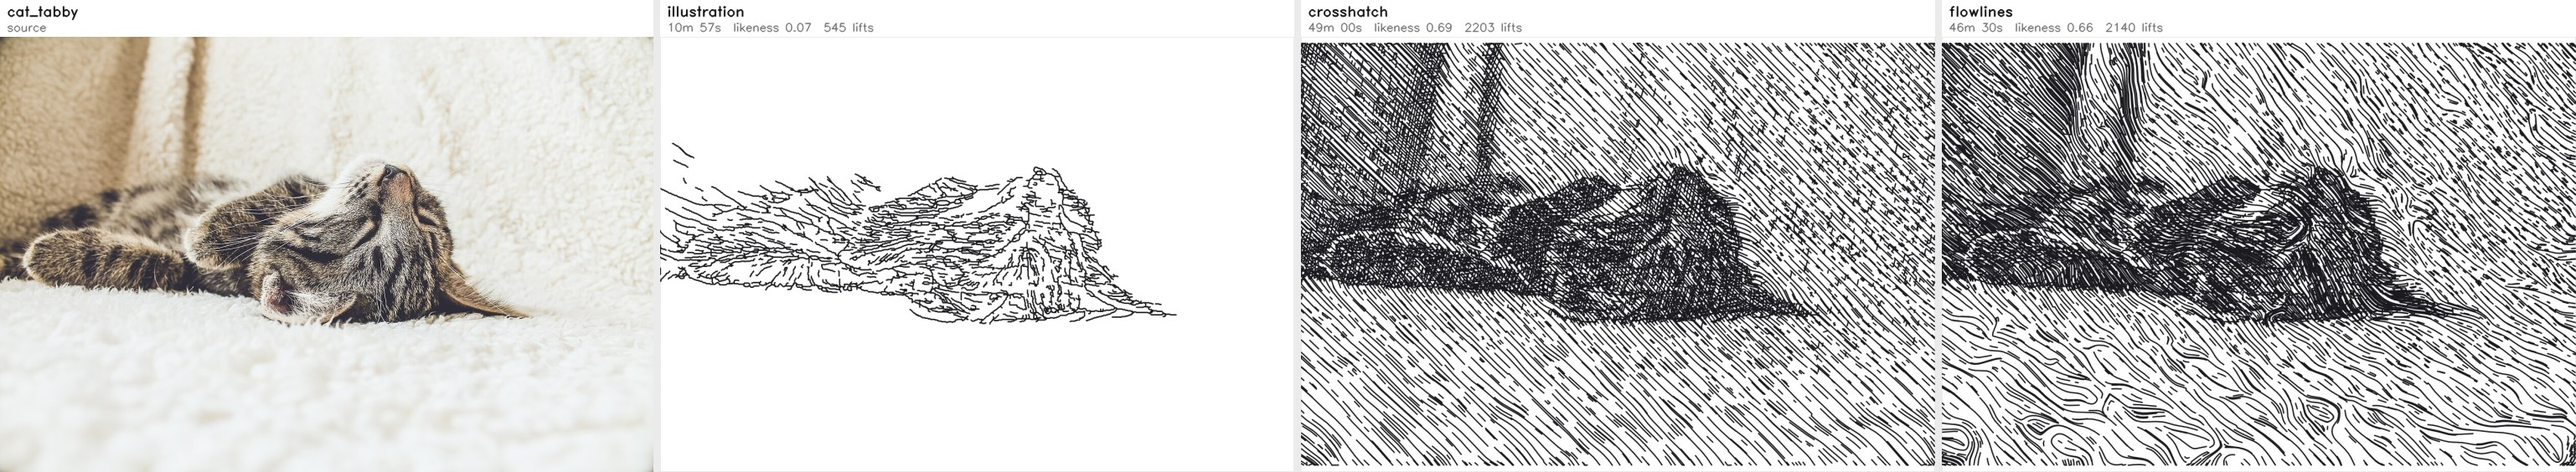
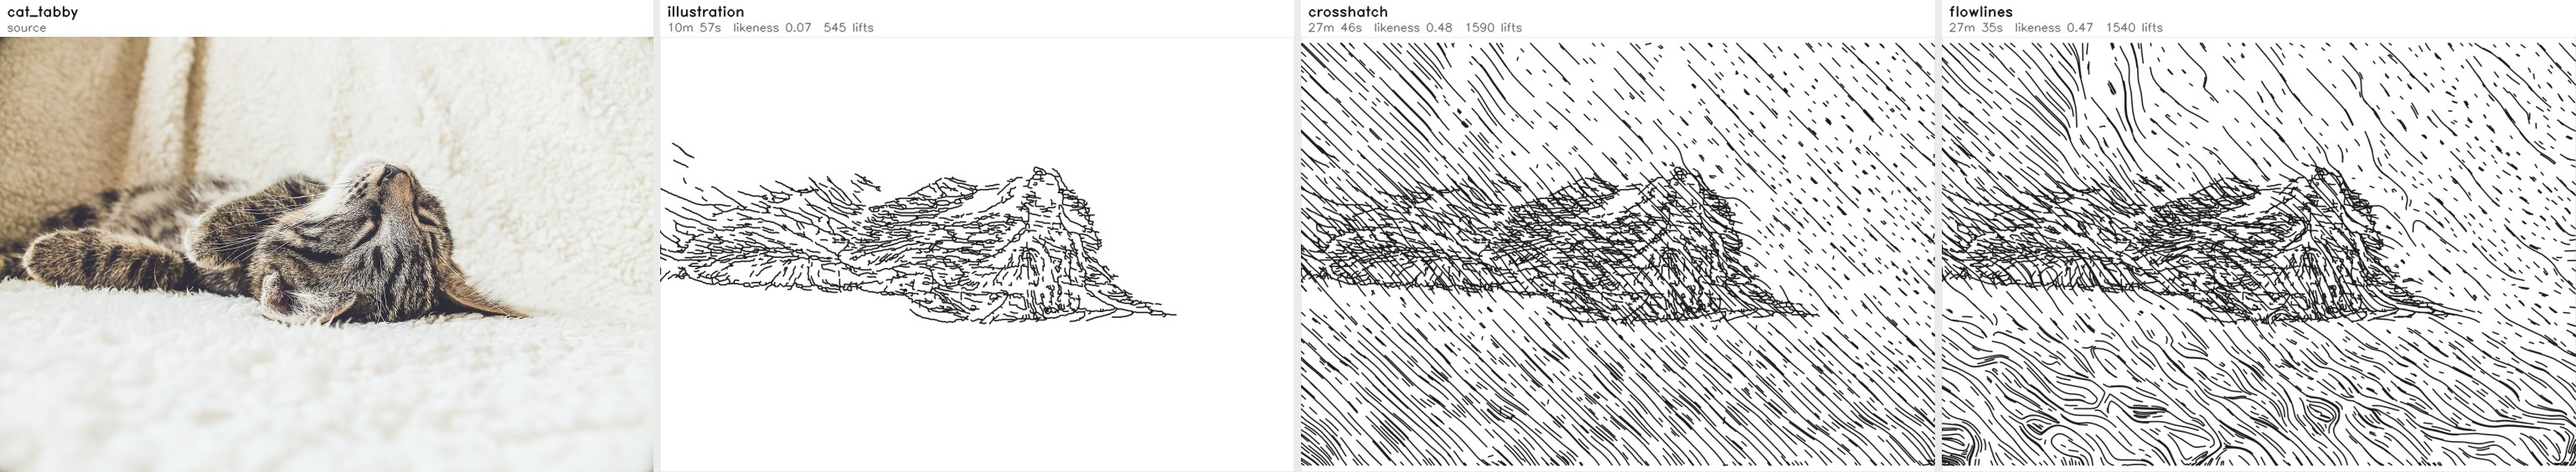
Make Hilbert and Waves faster: subject focus for every engine, blank paper below Hilbert's floor, a time limit that lightens
- subject_focus (default 0.8) lightens the backdrop by depth for every
  engine but illustration; Hilbert fades it fully.
- Hilbert leaves paper where tone wants less than half its coarsest cell's
  ink, instead of a full-page maze; corners fully rounded by default.
- For engines that don't rank strokes, the time limit re-runs the engine on
  less ink rather than dropping strokes, which cut holes in the Hilbert
  curve and the serpentine.

Beard portrait: Hilbert 44 -> 34 min, Waves 37 -> 32; dog Hilbert 1h17 -> 33.

Changed region(s): [[0.4995, 0.0904, 1.0, 0.9947]]

diff --git a/plotter/pipeline.py b/plotter/pipeline.py
@@ -105,19 +105,24 @@ def convert(img_rgb: np.ndarray, cfg: Config, progress=None) -> Result:
             form = depth_mod.form_orientation(depth_map,
                                               sigma=max(1.0, cfg.render.form_smooth))
 
-    note(f"drawing ({cfg.render.engine})")
-    engine = engines.get(cfg.render.engine)
-    produced = engine(value, coverage, canvas, cfg.pen, cfg.render,
-                      features=features, form=form, image_rgb=view_rgb)
-    if not isinstance(produced, tuple):
-        produced = (produced, None)
-    px_paths = produced[0]
-    # Engines that rank their own strokes return the scores as well; only
-    # those are pruned, since for the rest a low score just means "light
-    # tone", which is still wanted.
-    ranked = len(produced) > 2
-    scores = list(produced[2]) if ranked else budget.default_scores(px_paths, coverage)
+    focus = float(np.clip(cfg.render.subject_focus, 0.0, 1.0))
+    if cfg.render.engine == "hilbert":
+        # The curve's coarsest cell has a minimum ink it cannot go below, so
+        # a backdrop faded only part of the way lands right on the blank
+        # cutoff and comes out as a maze full of holes.  Fading it the
+        # whole way leaves a clean vignette instead.
+        focus = min(1.0, 1.25 * focus)
+    if focus > 0 and cfg.render.engine != "illustration":
+        # The same fade illustration applies to its shading, for every
+        # other engine: depth says what is subject and what is backdrop,
+        # and the backdrop gets lighter tone instead of full-density fill.
+        if depth_map is None and depth_mod.available():
+            depth_map = depth_mod.estimate(view_rgb, size=(w_px, h_px),
+                                           model=cfg.render.depth_model)
+        if depth_map is not None:
+            coverage = coverage * _subject_weight(depth_map, focus)
 
+    overlay, overlay_scores = [], []
     if cfg.render.outline and cfg.render.engine not in ("outline", "lineart", "illustration"):
         note("tracing outlines")
         overlay, strengths = engines.outline.generate(
@@ -125,20 +130,59 @@ def convert(img_rgb: np.ndarray, cfg: Config, progress=None) -> Result:
             strength=cfg.render.outline_strength,
             features=features, feature_min=cfg.render.outline_feature_min,
             form=form, image_rgb=view_rgb, with_strength=True)
-        px_paths = list(px_paths) + list(overlay)
-        scores += [budget.line_score(st, P.path_length(p) / canvas.px_per_mm)
-                   for p, st in zip(overlay, strengths)]
+        overlay_scores = [budget.line_score(st, P.path_length(p) / canvas.px_per_mm)
+                          for p, st in zip(overlay, strengths)]
 
-    keep = [i for i, p in enumerate(px_paths) if len(p) >= 2]
-    mm_paths = canvas.paths_to_mm(px_paths)
-    scores = [scores[i] for i in keep]
+    engine = engines.get(cfg.render.engine)
+
+    def draw(ink: float = 1.0):
+        """Run the engine at ``ink`` x the tone target; (mm paths, scores, ranked)."""
+        target = coverage
+        if ink != 1.0:
+            target = np.clip(coverage * ink, 0.0, cfg.pen.max_coverage)
+            target[target < cfg.pen.min_coverage] = 0.0
+        produced = engine(value, target, canvas, cfg.pen, cfg.render,
+                          features=features, form=form, image_rgb=view_rgb)
+        if not isinstance(produced, tuple):
+            produced = (produced, None)
+        px_paths = list(produced[0])
+        # Engines that rank their own strokes return the scores as well;
+        # only those are pruned, since for the rest a low score just means
+        # "light tone", which is still wanted.
+        ranked = len(produced) > 2
+        scores = (list(produced[2]) if ranked
+                  else budget.default_scores(px_paths, target))
+        px_paths += overlay
+        scores += overlay_scores
+        scores = [sc for sc, p in zip(scores, px_paths) if len(p) >= 2]
+        return canvas.paths_to_mm(px_paths), scores, ranked
+
+    def finish(ps):
+        return _optimise(ps, cfg, note, _drawn_sampler(ps, canvas, cfg))
+
+    note(f"drawing ({cfg.render.engine})")
+    mm_paths, scores, ranked = draw()
     raw_count = len(mm_paths)
     raw_travel = P.travel_length(mm_paths)   # unordered, unwelded
-    mm_paths, cut = budget.select(
-        mm_paths, scores, cfg,
-        finish=lambda ps: _optimise(ps, cfg, note, _drawn_sampler(ps, canvas, cfg)),
-        minutes=cfg.paths.time_limit_min,
-        prune_below=cfg.paths.prune_below if ranked else 0.0, note=note)
+    if ranked or cfg.paths.time_limit_min <= 0:
+        mm_paths, cut = budget.select(
+            mm_paths, scores, cfg, finish=finish,
+            minutes=cfg.paths.time_limit_min,
+            prune_below=cfg.paths.prune_below if ranked else 0.0, note=note)
+    else:
+        # An engine that doesn't rank its strokes draws the picture as a
+        # few long ones - a Hilbert curve, a serpentine - and dropping any
+        # of them cuts a hole in it.  Lighten the whole picture instead.
+        fitted, cut = budget.lighten(lambda ink: draw(ink)[0], mm_paths, cfg,
+                                     finish, cfg.paths.time_limit_min, note)
+        if fitted is None:
+            # Even the outline overlay alone runs over: draw no tone and
+            # keep the strongest outline strokes that fit.
+            bare, bare_scores, _ = draw(0.0)
+            fitted, cut = budget.select(bare, bare_scores, cfg, finish=finish,
+                                        minutes=cfg.paths.time_limit_min,
+                                        note=note)
+        mm_paths = fitted
 
     note("estimating")
     stats = gcode.estimate_time(mm_paths, cfg)
@@ -266,6 +310,13 @@ def draw_procedural(kind: str, seed: int | None = None, cfg: Config | None = Non
     blank = np.ones((2, 2), np.float32)
     return Result(paths=mm_paths, canvas=canvas, config=cfg,
                   value=blank, coverage=1.0 - blank, stats=stats)
+
+
+def _subject_weight(depth_map: np.ndarray, focus: float) -> np.ndarray:
+    """1 on the subject, falling to 1 - focus on the backdrop, from depth."""
+    near = np.clip((depth_map - 0.25) / 0.45, 0.0, 1.0)
+    near = near * near * (3.0 - 2.0 * near)            # smoothstep
+    return ((1.0 - focus) + focus * near).astype(np.float32)
 
 
 def _drawn_sampler(mm_paths, canvas: Canvas, cfg: Config):

diff --git a/app.py b/app.py
@@ -77,7 +77,8 @@ def config_from_form() -> Config:
     cfg.render.outline_strength = _f("outline_strength", 0.6)
     cfg.render.hatch_layers = _i("hatch_layers", 3)
     cfg.render.hatch_share = _f("hatch_share", 0.30)
-    cfg.render.hilbert_smooth = _f("hilbert_smooth", 0.35)
+    cfg.render.hilbert_smooth = _f("hilbert_smooth", 0.5)
+    cfg.render.subject_focus = _f("subject_focus", 0.8)
     cfg.render.hilbert_detail = _f("hilbert_detail", 1.2)
     cfg.render.hatch_coherence = _f("hatch_coherence", 0.45)
     cfg.render.region_segments = _i("region_segments", 400)
@@ -588,6 +589,12 @@ HTML = r"""
             <span class="v" id="time_limitV">off</span></label>
           <input type="range" id="time_limit" min="0" max="60" step="1" value="0">
         </div>
+        <div class="ctl" data-for="crosshatch,flowlines,adaptive,waves,hilbert,tsp,contours">
+          <label><span>Subject focus
+            <span class="tip" title="Uses depth to lighten the background so the drawing - and the plot time - goes to the subject. Hilbert fades the background out completely. Turn down for landscapes or to keep a full-frame texture.">i</span></span>
+            <span class="v" id="subject_focusV">0.80</span></label>
+          <input type="range" id="subject_focus" min="0" max="1" step="0.05" value="0.8">
+        </div>
         <div class="ctl" data-for="flowlines">
           <label>Follow image structure <span class="v" id="coherenceV">100%</span></label>
           <input type="range" id="coherence" min="0" max="1" step="0.05" value="1">
@@ -658,9 +665,9 @@ HTML = r"""
             <span>Corner rounding
               <span class="tip" title="A plotter nearly stops at every square corner, and a Hilbert curve is nothing but corners. Rounding them plots faster and softens the maze into something closer to drawn line.">i</span>
             </span>
-            <span class="v" id="hilbert_smoothV">0.35</span>
+            <span class="v" id="hilbert_smoothV">0.50</span>
           </label>
-          <input type="range" id="hilbert_smooth" min="0" max="0.5" step="0.05" value="0.35">
+          <input type="range" id="hilbert_smooth" min="0" max="0.5" step="0.05" value="0.5">
         </div>
         <div class="ctl" data-for="hilbert">
           <label>Detail depth <span class="v" id="hilbert_detailV">1.2</span></label>
@@ -943,7 +950,7 @@ const FMT = {
   region_threshold:v=>(+v).toFixed(2), region_segments:v=>v,
   illustration_shadow:v=>(+v).toFixed(2), illustration_focus:v=>(+v).toFixed(2),
   illustration_tone:v=>(+v).toFixed(2),
-  time_limit:v=>(+v===0?'off':v+' min'),
+  time_limit:v=>(+v===0?'off':v+' min'), subject_focus:v=>(+v).toFixed(2),
   spacing:v=>(+v===0?'auto':(+v).toFixed(1)+' mm'),
   pen:v=>(+v).toFixed(2)+' mm', contrast:v=>(+v).toFixed(1),
   detail:v=>(+v).toFixed(2), exposure:v=>(+v).toFixed(2), gamma:v=>(+v).toFixed(2),
@@ -1029,7 +1036,7 @@ const FIELDS = ['ink','angle','coherence','levels','points','depth','coarsest',
   'illustration_shading','illustration_shadow','illustration_focus','illustration_tone',
   'pen','paper','margin','contrast','detail','exposure','gamma','chroma',
   'ink_response','resolution','merge','bridge','bridge_min_ink','max_coverage',
-  'feed','travel_feed','time_limit'];
+  'feed','travel_feed','time_limit','subject_focus'];
 const CHECKS = ['outline','portrait','rotate_out','invert','flip_x','flip_y',
   'remove_bg','show_travel','use_depth'];
 

diff --git a/plotter/budget.py b/plotter/budget.py
@@ -50,6 +50,45 @@ def default_scores(px_paths, coverage) -> list[float]:
     return out
 
 
+def lighten(draw, first, cfg, finish, minutes: float, note=lambda m: None):
+    """Fit ``minutes`` by redrawing everything lighter, for unranked engines.
+
+    ``draw(ink)`` re-runs the engine on ``ink`` x the tone target and returns
+    millimetre paths; ``first`` is its output at full ink.  Plot time grows
+    roughly in proportion to ink, so each guess scales by target / time and
+    the bracket keeps it honest.  Returns (finished paths, info dict).
+    """
+    target = minutes * 60.0
+    out = finish(first)
+    t = gcode.estimate_time(out, cfg)["total_s"]
+    info = {"pruned": 0, "budget_cut": 0, "ink": 1.0}
+    if t <= target:
+        return out, info
+    lo, hi, ink = 0.0, 1.0, 1.0
+    best = None
+    for _ in range(7):
+        guess = ink * target / max(t, 1e-9) * 0.98
+        ink = float(np.clip(guess, lo + 0.25 * (hi - lo), hi - 0.25 * (hi - lo)))
+        note(f"fitting {minutes:g} min budget (ink {ink:.2f})")
+        out = finish(draw(ink))
+        t = gcode.estimate_time(out, cfg)["total_s"]
+        if t <= target:
+            lo, best = ink, (out, ink)
+            if t >= 0.95 * target:
+                break
+        else:
+            hi = ink
+        if hi - lo < 0.01:
+            break
+    if best is None:
+        # Nothing the engine draws fits - whatever is left over (an outline
+        # overlay) already takes longer than the limit.  The caller falls
+        # back to ranking strokes.
+        return None, info
+    info["ink"] = best[1]
+    return best[0], info
+
+
 def select(mm_paths, scores, cfg, finish, minutes: float = 0.0,
            prune_below: float = 0.0, note=lambda m: None):
     """Prune weak strokes, then keep the best that fit in ``minutes``.

diff --git a/plotter/engines/hilbert.py b/plotter/engines/hilbert.py
@@ -187,8 +187,19 @@ def _leaf_depths(coverage, side, n, min_depth, max_depth, pen_px,
     # blank cells, which would shred one continuous curve into hundreds of
     # dashes for no visible gain.  Opening the mask keeps genuine white areas
     # white at full size while closing over the speckle.
-    empty = (cv2.resize(sq, (n, n), interpolation=cv2.INTER_AREA) <= 0)
-    empty = empty.astype(np.uint8)
+    #
+    # The coarsest cell the curve may use still lays down pen * 2^min / side
+    # of coverage, and it lays it whether the paper there wanted that much
+    # or not: a pale wall behind a portrait became a full-page maze, darker
+    # than the photo and a third of the plot time.  Below half of that floor
+    # the same round-to-nearest rule the hatching engines use leaves paper.
+    floor = 0.5 * pen_px * (1 << min_depth) / side
+    # Judged on a smooth map rather than per coarse block, or the edge of
+    # the blank area comes out as a staircase of 4 mm squares.
+    fine = cv2.resize(sq, (n, n), interpolation=cv2.INTER_AREA)
+    cell = n / float(1 << min_depth)
+    local = cv2.GaussianBlur(fine, (0, 0), max(0.5, 0.5 * cell))
+    empty = ((fine <= 0) | (local < floor)).astype(np.uint8)
     span = max(1, int(round(white_px * n / side)))
     if span > 1:
         k = np.ones((span, span), np.uint8)

diff --git a/image_to_gcode.py b/image_to_gcode.py
@@ -78,7 +78,10 @@ def build_parser() -> argparse.ArgumentParser:
     g.add_argument("--hatch-share", type=float, default=0.30, metavar="F",
                    help="crosshatch: coverage one direction may supply "
                         "before the next is laid across it")
-    g.add_argument("--hilbert-smooth", type=float, default=0.35, metavar="F",
+    g.add_argument("--subject-focus", type=float, default=0.8, metavar="F",
+                   help="every engine but illustration: lighten the background "
+                        "using depth (0 = whole frame alike)")
+    g.add_argument("--hilbert-smooth", type=float, default=0.5, metavar="F",
                    help="hilbert: round the right angles; plots faster")
     g.add_argument("--hilbert-detail", type=float, default=1.2, metavar="F",
                    help="hilbert: extra subdivision where fine detail lives")
@@ -210,6 +213,7 @@ def config_from_args(args) -> Config:
     cfg.render.illustration_shadow = args.shadow
     cfg.render.illustration_focus = args.focus
     cfg.render.hilbert_smooth = args.hilbert_smooth
+    cfg.render.subject_focus = args.subject_focus
     cfg.render.hilbert_detail = args.hilbert_detail
     cfg.render.flow_coherence = args.flow_coherence
     cfg.render.contour_levels = args.levels

diff --git a/plotter/config.py b/plotter/config.py
@@ -158,7 +158,7 @@ class RenderConfig:
     #: Round the curve's right angles. 0 keeps the hard maze look; ~0.35
     #: turns every corner into a short arc, which plots markedly faster
     #: because a plotter has to slow almost to a stop for a square corner.
-    hilbert_smooth: float = 0.35
+    hilbert_smooth: float = 0.5
     #: Extra subdivision levels where fine detail lives, so an eye is not
     #: drawn at the same pitch as the flat cheek beside it.
     hilbert_detail: float = 1.2
@@ -205,6 +205,9 @@ class RenderConfig:
     illustration_light_deg: float = 135.0   # light comes from here; 135 = upper left
     #: Each hatch stroke starts up to this fraction in from its lit end.
     illustration_fade: float = 0.5
+    #: Every engine but illustration (which has its own): fade tone on the
+    #: backdrop using depth.  0 = whole frame alike, 1 = subject only.
+    subject_focus: float = 0.8
     # region-adaptive
     region_segments: int = 400     # approximate SLIC superpixel count
     #: How much local texture energy it takes for a region to be routed to

diff --git a/docs/evaluation/README.md b/docs/evaluation/README.md
@@ -48,21 +48,21 @@ wrong because they were tuned on a single picture.
 
 | photo | engine | plot time | likeness | tone error | lifts | drawn m | compute s |
 |---|---|---|---|---|---|---|---|
-| car_grille | illustration | 25m 59s | 0.194 | 0.423 | 1431 | 19.2 | 5.5 |
-| car_grille | crosshatch | 1h 12m | 0.706 | 0.079 | 1216 | 93.7 | 5.5 |
-| car_grille | flowlines | 55m 10s | 0.664 | 0.088 | 1024 | 93.9 | 4.2 |
-| cat_tabby | illustration | 10m 57s | 0.075 | 0.227 | 545 | 5.6 | 2.0 |
-| cat_tabby | crosshatch | 49m 00s | 0.689 | 0.052 | 2203 | 46.5 | 3.2 |
-| cat_tabby | flowlines | 46m 30s | 0.660 | 0.056 | 2140 | 46.5 | 3.1 |
-| dog_ottawa | illustration | 13m 56s | 0.101 | 0.408 | 708 | 8.5 | 2.2 |
-| dog_ottawa | crosshatch | 54m 27s | 0.740 | 0.074 | 1416 | 70.5 | 4.3 |
-| dog_ottawa | flowlines | 48m 26s | 0.679 | 0.078 | 1309 | 71.0 | 3.9 |
+| car_grille | illustration | 25m 59s | 0.194 | 0.423 | 1431 | 19.2 | 6.0 |
+| car_grille | crosshatch | 57m 41s | 0.619 | 0.070 | 1156 | 71.1 | 4.4 |
+| car_grille | flowlines | 44m 25s | 0.599 | 0.083 | 977 | 71.9 | 3.4 |
+| cat_tabby | illustration | 10m 57s | 0.075 | 0.227 | 545 | 5.6 | 1.8 |
+| cat_tabby | crosshatch | 27m 46s | 0.479 | 0.071 | 1590 | 19.9 | 2.2 |
+| cat_tabby | flowlines | 27m 35s | 0.469 | 0.073 | 1540 | 20.4 | 2.2 |
+| dog_ottawa | illustration | 13m 56s | 0.101 | 0.408 | 708 | 8.5 | 2.1 |
+| dog_ottawa | crosshatch | 34m 14s | 0.595 | 0.060 | 1001 | 41.4 | 2.9 |
+| dog_ottawa | flowlines | 32m 32s | 0.575 | 0.062 | 1041 | 41.4 | 3.0 |
 | landscape_lake | illustration | 14m 55s | 0.087 | 0.491 | 742 | 9.7 | 2.2 |
-| landscape_lake | crosshatch | 1h 00m | 0.734 | 0.086 | 1153 | 82.9 | 4.6 |
-| landscape_lake | flowlines | 48m 15s | 0.645 | 0.102 | 989 | 78.0 | 3.7 |
+| landscape_lake | crosshatch | 31m 47s | 0.549 | 0.076 | 861 | 38.4 | 2.8 |
+| landscape_lake | flowlines | 27m 55s | 0.542 | 0.078 | 861 | 36.0 | 2.5 |
 | portrait_beard | illustration | 13m 06s | 0.238 | 0.344 | 625 | 8.1 | 2.1 |
-| portrait_beard | crosshatch | 30m 27s | 0.804 | 0.070 | 615 | 37.1 | 2.6 |
-| portrait_beard | flowlines | 27m 56s | 0.754 | 0.073 | 673 | 36.5 | 2.5 |
-| portrait_elderly | illustration | 7m 09s | 0.126 | 0.458 | 382 | 5.0 | 1.5 |
-| portrait_elderly | crosshatch | 31m 11s | 0.798 | 0.093 | 651 | 39.5 | 2.8 |
-| portrait_elderly | flowlines | 25m 04s | 0.751 | 0.095 | 610 | 37.8 | 2.3 |
+| portrait_beard | crosshatch | 27m 10s | 0.728 | 0.071 | 595 | 31.6 | 2.4 |
+| portrait_beard | flowlines | 24m 29s | 0.688 | 0.071 | 565 | 30.9 | 2.4 |
+| portrait_elderly | illustration | 7m 09s | 0.126 | 0.458 | 382 | 5.0 | 1.7 |
+| portrait_elderly | crosshatch | 16m 51s | 0.620 | 0.082 | 614 | 18.7 | 1.8 |
+| portrait_elderly | flowlines | 15m 38s | 0.594 | 0.088 | 619 | 18.8 | 1.8 |

diff --git a/docs/algorithms.md b/docs/algorithms.md
@@ -68,6 +68,32 @@ move. Feed rate alone is useless (a machine at 400 mm/s² never reaches
 just as wrong — it would price the Hilbert curve, which is nothing but corners,
 at triple its real cost.
 
+## Hilbert and Waves: why they are slow, and what helps
+
+Both styles earn tone by wiggling, and a wiggle is a tight curve. A plotter
+can only take a curve of radius r at about √(acceleration × r): at the
+default 400 mm/s² the waves' peaks (r ≈ 0.1 mm) cap the pen near 7 mm/s
+against a 50 mm/s feed, and the Hilbert maze turns every 0.6 mm. A tone needs
+a fixed length of line per area, so changing wave spacing or period barely
+moves the time (32–34 min on the beard portrait across the settings tried).
+
+What does help:
+
+- **Draw less.** `--subject-focus` (default 0.8, every engine but
+  illustration, which has its own) lightens the backdrop using depth. Hilbert
+  also leaves paper wherever the tone wants less than half of what its
+  coarsest cell lays down; before, a pale wall became a full-page maze darker
+  than the photo. Hilbert fades the backdrop fully, because a partial fade
+  lands on that cutoff and comes out as a maze full of holes. Beard portrait:
+  Hilbert 44 → 34 min, Waves 37 → 32 min; dog: Hilbert 1h 17m → 33 min.
+- **Round the corners.** `--hilbert-smooth` now defaults to 0.5.
+- **The machine.** These two gain the most from higher GRBL acceleration:
+  at 1600 mm/s² and 0.1 mm junction deviation Hilbert drops from 35 to 13 min
+  and Waves from 32 to 15 (illustration: 13 → 7.5). See `docs/hardware.md`.
+- **The time limit** lightens the whole picture for these engines (it
+  re-runs the engine on less ink until the plot fits) instead of dropping
+  strokes, which for a Hilbert curve or a serpentine cuts holes.
+
 ## Crossing layers
 
 Strokes of one direction sit side by side, so their coverage adds. A second
